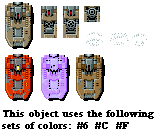
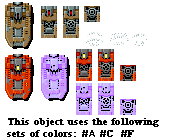
ship sprite updated

diff --git a/Raiden Project/ModuleMap1.cpp b/Raiden Project/ModuleMap1.cpp
@@ -118,11 +118,10 @@ update_status ModuleMap1::Update()
 
 		App->enemies->AddEnemy(0, ENEMY_TYPES::MEDIUM_SHOOTER, 400, -5400);
 		App->enemies->AddEnemy(0, ENEMY_TYPES::MEDIUM_SHOOTER, 700, -5600);
-		App->enemies->AddEnemy(0, ENEMY_TYPES::MEDIUM_SHOOTER, 300, -400);
-		//App->enemies->AddEnemy(1, ENEMY_TYPES::MEDIUM_SHOOTER, 500, -400);
 
 		App->enemies->AddEnemy(0, ENEMY_TYPES::SHIP, 700, -8700);
 		App->enemies->AddEnemy(0, ENEMY_TYPES::SHIP, 800, -8900);
+		App->enemies->AddEnemy(0, ENEMY_TYPES::SHIP, 400, -300);
 
 		App->enemies->AddEnemy(0, ENEMY_TYPES::SHIP_TANK, 700, -9100);
 		App->enemies->AddEnemy(0, ENEMY_TYPES::SHIP_TANK, 850, -9100);

diff --git a/Raiden Project/Enemy_Medium_Shooter.cpp b/Raiden Project/Enemy_Medium_Shooter.cpp
@@ -214,8 +214,8 @@ void Enemy_Medium_Shooter::MoveShoot()
 		}
 		if (shoot_time % 5 == 0)
 		{
-			App->particles->AddParticle(App->particles->enemyshot, position.x + 50, position.y + 110, COLLIDER_ENEMY_SHOT, 0, distance1.x, distance1.y);
 			App->particles->AddParticle(App->particles->enemyshot, position.x + 150, position.y + 110, COLLIDER_ENEMY_SHOT, 0, distance.x, distance.y);
+			App->particles->AddParticle(App->particles->enemyshot, position.x + 50, position.y + 110, COLLIDER_ENEMY_SHOT, 0, distance1.x, distance1.y);
 
 			shots++;
 		}

diff --git a/Raiden Project/Enemy_Ship.h b/Raiden Project/Enemy_Ship.h
@@ -13,6 +13,14 @@ public:
 	Animation open;
 	Animation nodoor;
 
+	Animation hitsemiopen;
+	Animation hitopen;
+	Animation hitnodoor;
+
+	Animation hitsemiopen1;
+	Animation hitopen1;
+	Animation hitnodoor1;
+
 	// Water waves
 	Animation waterdown1;
 	Animation waterdown2;
